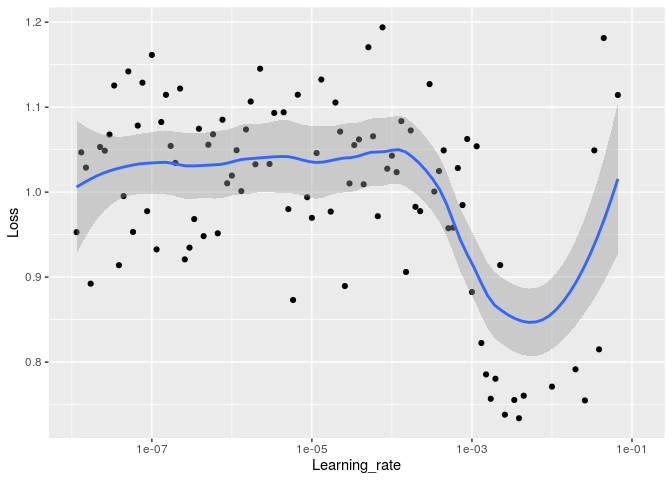
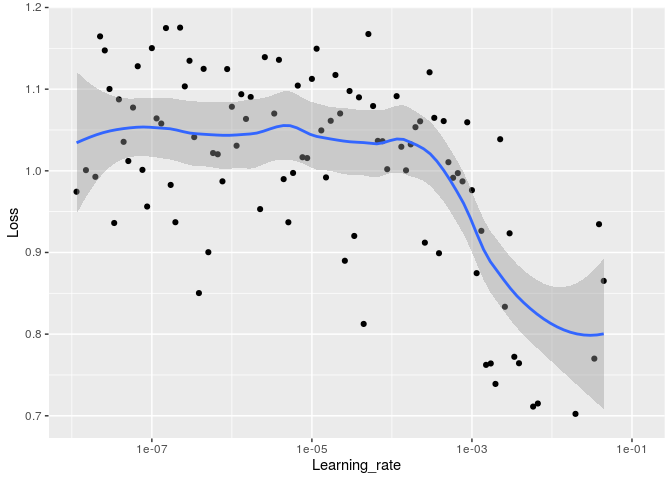
Fine tuning on the model after selecting weight of epoch 6

diff --git a/resnet50-lr-finder-and-cyclic-lr-with-r.md b/resnet50-lr-finder-and-cyclic-lr-with-r.md
@@ -287,8 +287,8 @@ str(batch)
 ```
 
     ## List of 2
-    ##  $ : num [1:32, 1:224, 1:224, 1:3] 137 94.9 79 68.6 151.9 ...
-    ##  $ : num [1:32, 1:4] 0 0 0 0 1 1 0 1 0 0 ...
+    ##  $ : num [1:32, 1:224, 1:224, 1:3] 89.2 79 80.2 64.1 75 ...
+    ##  $ : num [1:32, 1:4] 0 1 1 0 0 1 0 0 1 0 ...
 
 # Import pre-trained model
 
@@ -470,12 +470,12 @@ head(data)
 ```
 
     ##   Learning_rate      Loss
-    ## 1  1.145048e-08 0.9529219
-    ## 2  1.311134e-08 1.0468488
-    ## 3  1.501311e-08 1.0288451
-    ## 4  1.719072e-08 0.8923152
-    ## 5  1.968419e-08 1.2429831
-    ## 6  2.253934e-08 1.0531113
+    ## 1  1.145048e-08 0.9743919
+    ## 2  1.311134e-08 1.2076546
+    ## 3  1.501311e-08 1.0008450
+    ## 4  1.719072e-08 1.1876563
+    ## 5  1.968419e-08 0.9926370
+    ## 6  2.253934e-08 1.1646078
 
 Learning rate vs loss
 :
@@ -663,14 +663,14 @@ The following code [came from the tutorial of Keras here,
 checkpoint_dir <- "checkpoints"
 unlink(checkpoint_dir, recursive = TRUE)
 dir.create(checkpoint_dir)
-filepath <- file.path(checkpoint_dir, "weights.{epoch:02d}-{val_loss:.2f}.hdf5")
+filepath <- file.path(checkpoint_dir, "weights.{epoch:02d}.hdf5")
 ```
 
 ``` r
 check_point_callback <- callback_model_checkpoint(
   filepath = filepath,
   save_weights_only = TRUE,
-  save_best_only = TRUE,
+  save_best_only = FALSE,
   verbose = 1
 )
 ```
@@ -710,8 +710,15 @@ Load best model :
 list.files(checkpoint_dir)
 ```
 
-    ## [1] "weights.01-0.72.hdf5" "weights.02-0.58.hdf5" "weights.03-0.56.hdf5"
-    ## [4] "weights.04-0.52.hdf5" "weights.06-0.52.hdf5"
+    ##  [1] "weights.01.hdf5" "weights.02.hdf5" "weights.03.hdf5" "weights.04.hdf5"
+    ##  [5] "weights.05.hdf5" "weights.06.hdf5" "weights.07.hdf5" "weights.08.hdf5"
+    ##  [9] "weights.09.hdf5" "weights.10.hdf5"
+
+``` r
+model %>% load_model_weights_hdf5(
+  file.path(checkpoint_dir,"weights.06.hdf5")
+)
+```
 
 ### About the learning rate
 
@@ -811,12 +818,12 @@ head(data)
 ```
 
     ##   Learning_rate      Loss
-    ## 1  1.145048e-08 0.9529219
-    ## 2  1.311134e-08 1.0468488
-    ## 3  1.501311e-08 1.0288451
-    ## 4  1.719072e-08 0.8923152
-    ## 5  1.968419e-08 1.2429831
-    ## 6  2.253934e-08 1.0531113
+    ## 1  1.145048e-08 0.9743919
+    ## 2  1.311134e-08 1.2076546
+    ## 3  1.501311e-08 1.0008450
+    ## 4  1.719072e-08 1.1876563
+    ## 5  1.968419e-08 0.9926370
+    ## 6  2.253934e-08 1.1646078
 
 Learning rate vs loss
 :
@@ -827,7 +834,7 @@ ggplot(data, aes(x=Learning_rate, y=Loss)) + scale_x_log10() + geom_point() +  g
 
     ## `geom_smooth()` using method = 'loess' and formula 'y ~ x'
 
-![](resnet50-lr-finder-and-cyclic-lr-with-r_files/figure-gfm/unnamed-chunk-63-1.png)<!-- -->
+![](resnet50-lr-finder-and-cyclic-lr-with-r_files/figure-gfm/unnamed-chunk-64-1.png)<!-- -->
 
 ### Training
 
@@ -854,7 +861,7 @@ l_rate <- rep(c(l_rate_cyclical, l_rate_cosine_annealing), nb_epochs/2)
 plot(l_rate, type="b", pch=16, xlab="iteration", cex=0.2, ylab="learning rate", col="grey50")
 ```
 
-![](resnet50-lr-finder-and-cyclic-lr-with-r_files/figure-gfm/unnamed-chunk-66-1.png)<!-- -->
+![](resnet50-lr-finder-and-cyclic-lr-with-r_files/figure-gfm/unnamed-chunk-67-1.png)<!-- -->
 
 ``` r
 model %>% compile(
